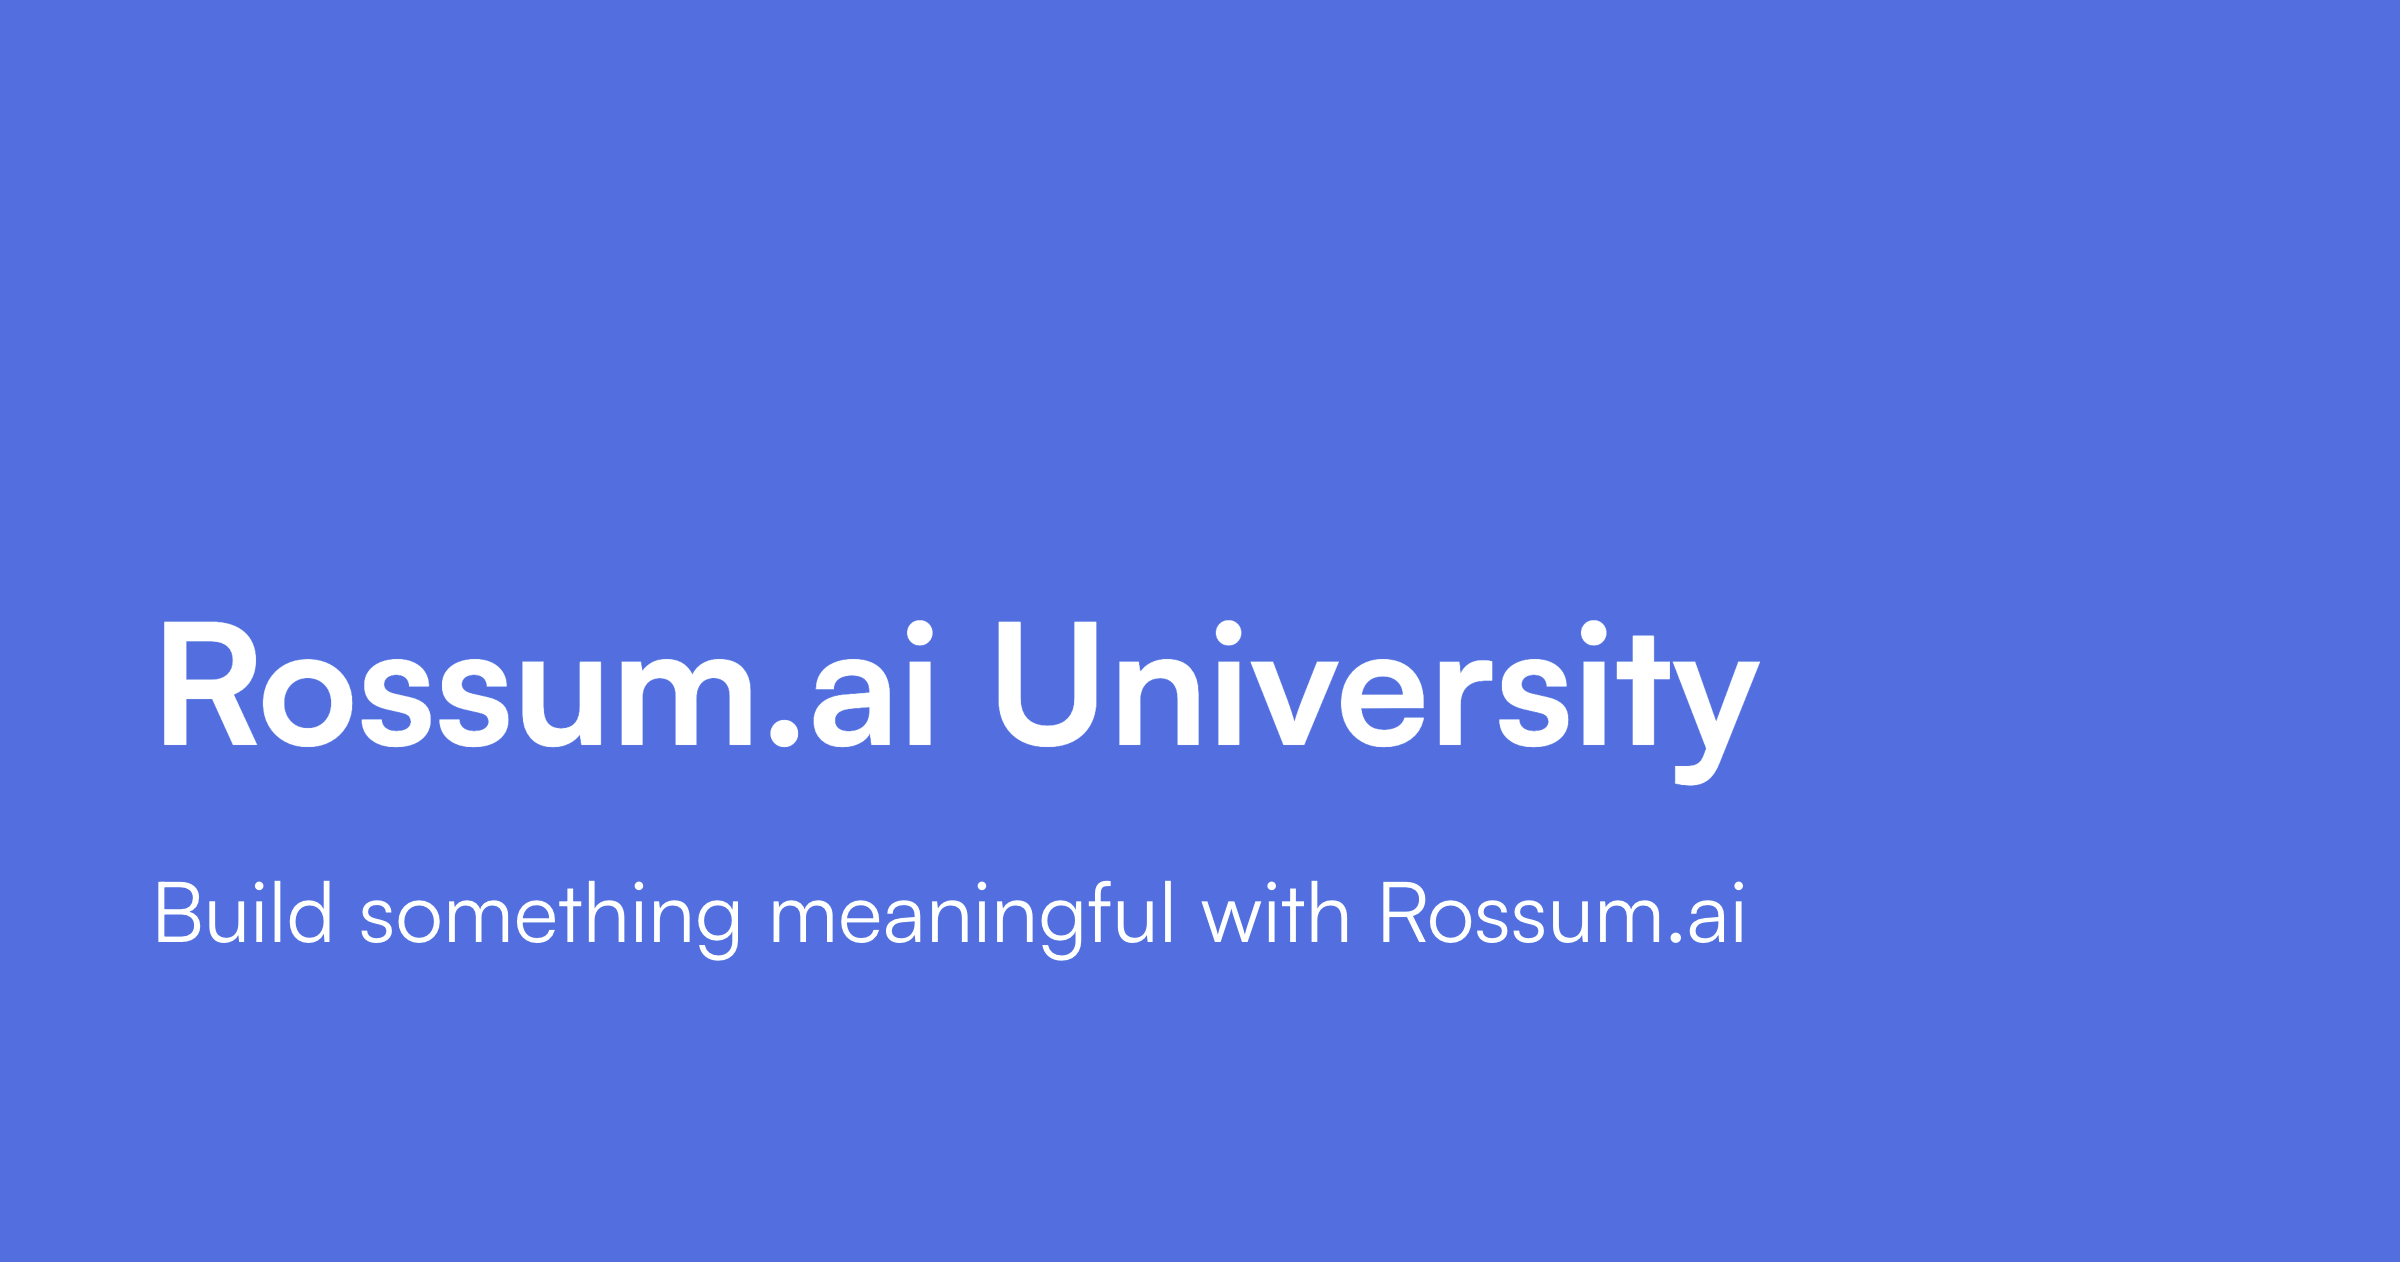
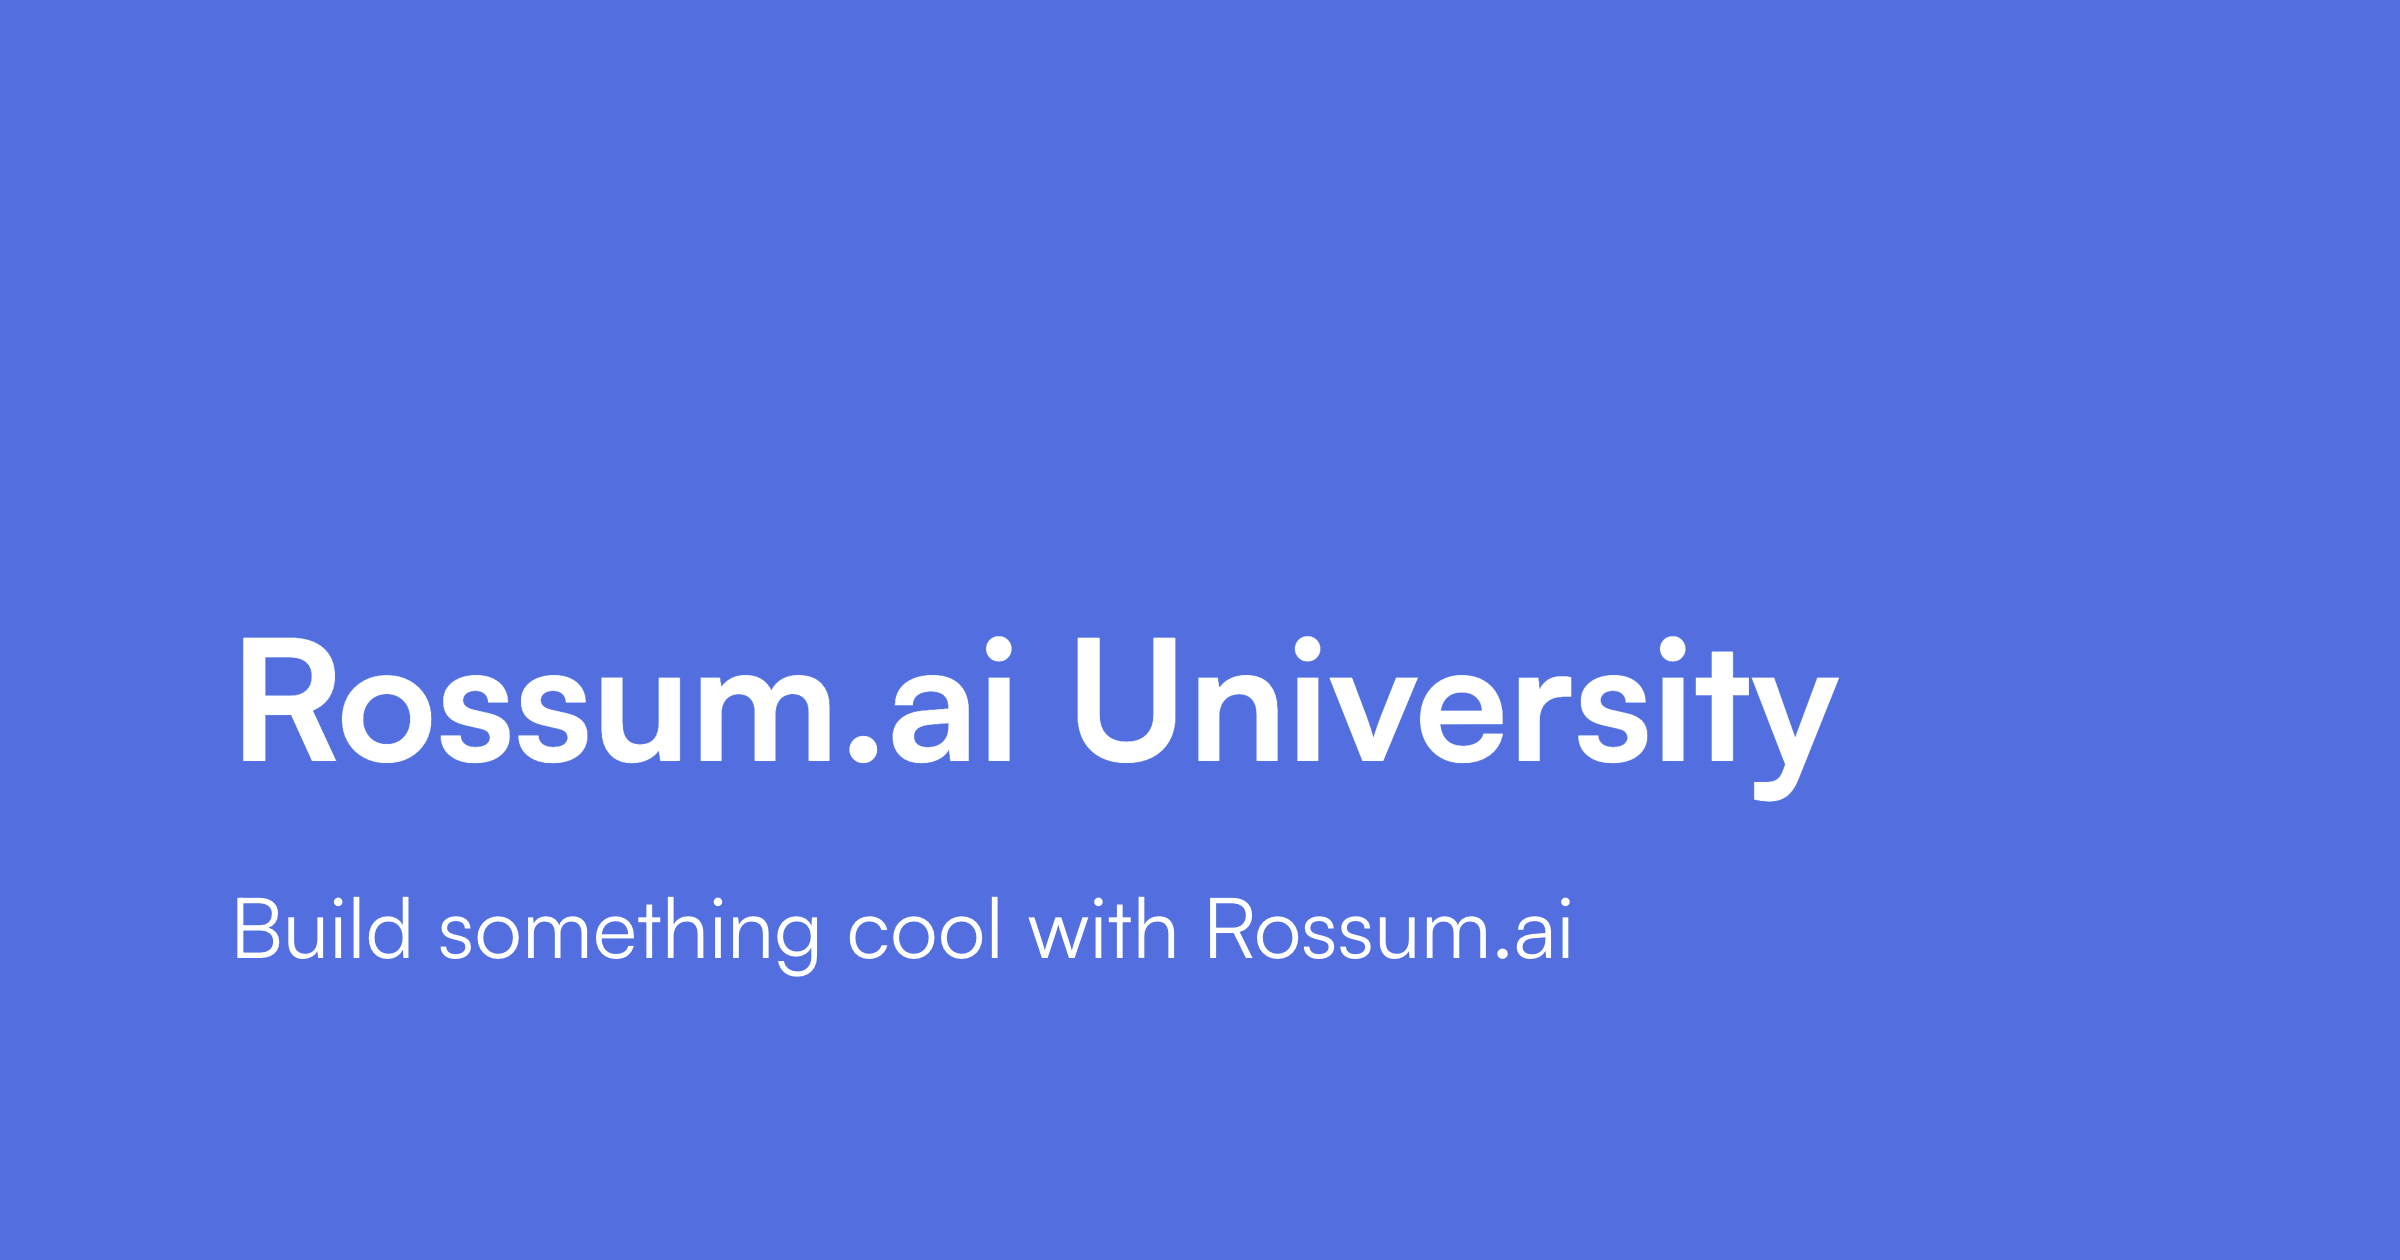
Update tagline
Essentially reverting it back to the previous version.

Changed region(s): [[0.0625, 0.4952, 0.7812, 0.65], [0.0625, 0.681, 0.7188, 0.7738]]

diff --git a/tests/cookbook.spec.js b/tests/cookbook.spec.js
@@ -11,9 +11,7 @@ test('homepage', async ({ page }) => {
   await page.goto('/');
 
   await expect(page.getByRole('heading')).toContainText('Rossum.ai University');
-  await expect(page.getByRole('paragraph')).toContainText(
-    'Build something meaningful with Rossum.ai',
-  );
+  await expect(page.getByRole('paragraph')).toContainText('Build something cool with Rossum.ai');
 });
 
 test('main navigation (Extensions)', async ({ page }) => {

diff --git a/docusaurus.config.js b/docusaurus.config.js
@@ -9,7 +9,7 @@ import { themes as prismThemes } from 'prism-react-renderer';
 /** @type {import('@docusaurus/types').Config} */
 const config = {
   title: 'Rossum.ai University',
-  tagline: 'Build something meaningful with Rossum.ai',
+  tagline: 'Build something cool with Rossum.ai',
   favicon: 'img/128-blue-crunch.png',
 
   // Set the production url of your site here
